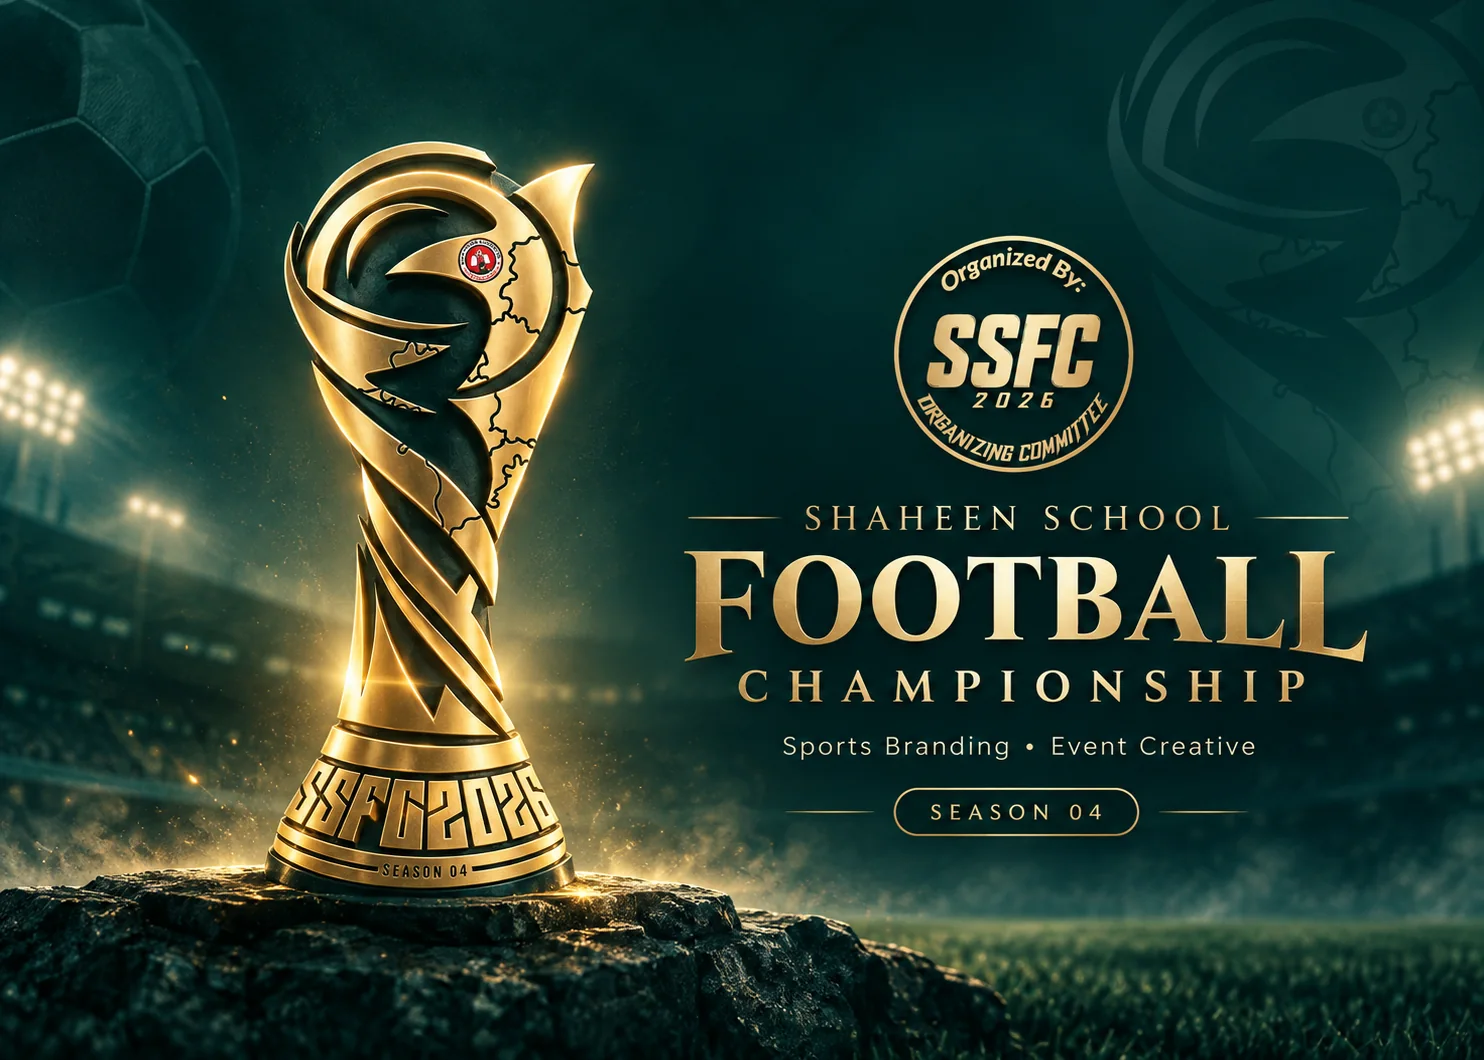
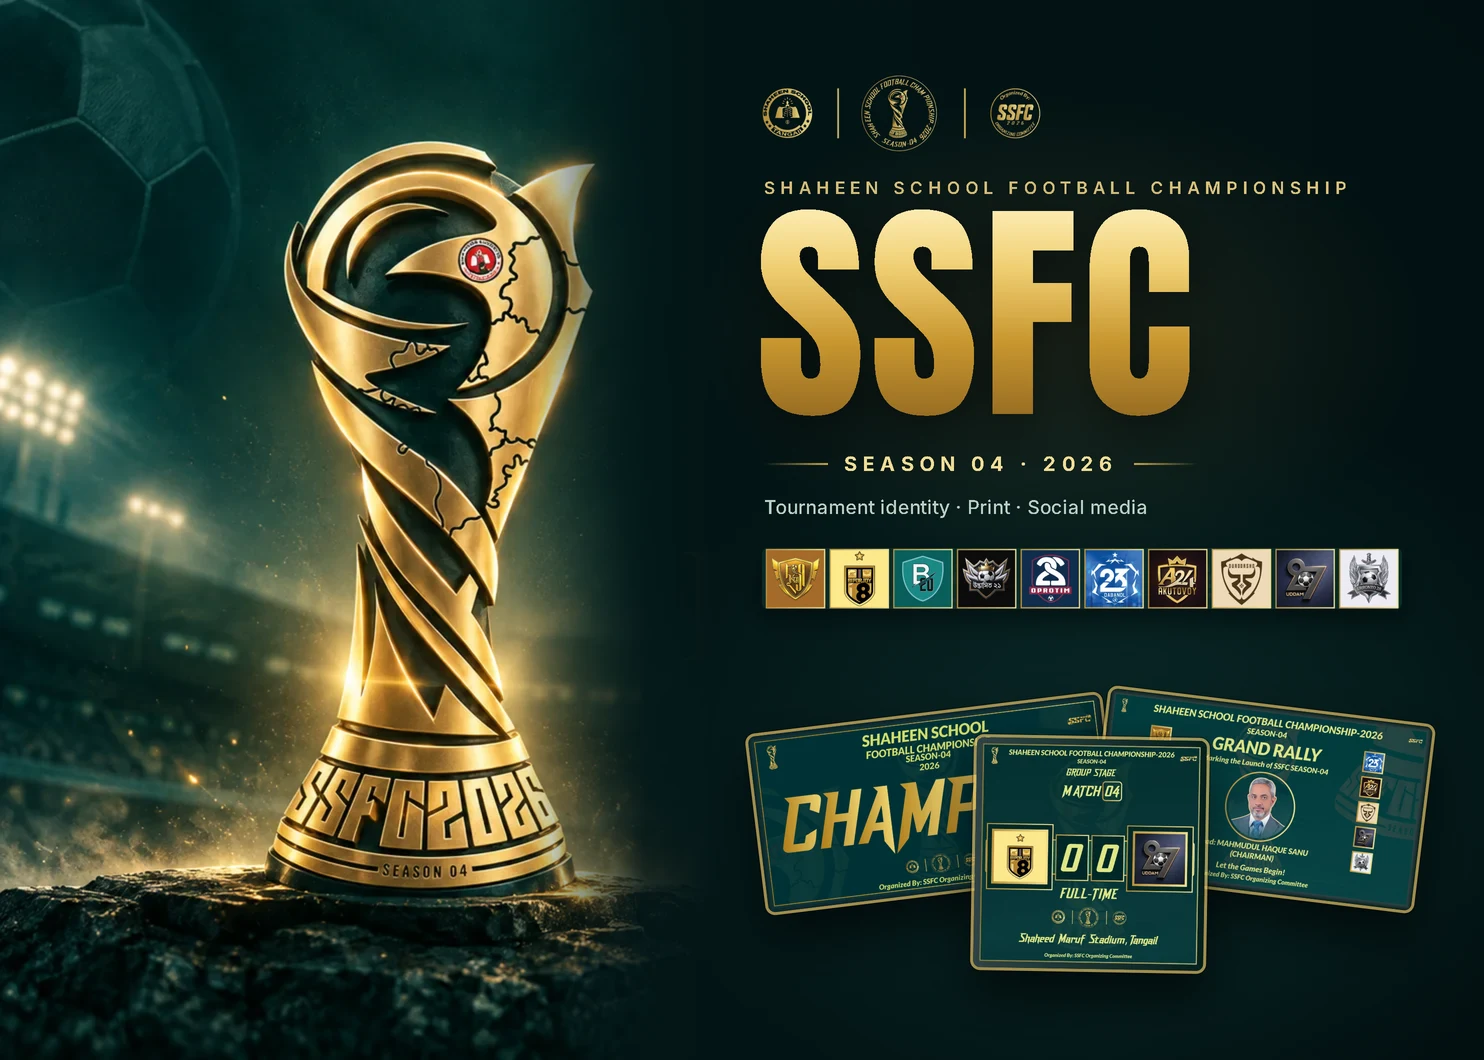
Redesign the SSFC cover with the real tournament work
The new cover keeps the trophy render and replaces the soft, generic
text side with crisp typography and real SSFC artwork: the three
official seals, a gold SSFC title, Season 04 · 2026, all ten team crests
and a fan of the champion, match-result and grand rally designs. It was
rendered at 2x from HTML. The 1200×630 share image is cut from the same
render. URLs carry ?v=2 so cached copies refresh.

diff --git a/ssfc.html b/ssfc.html
@@ -15,18 +15,18 @@
   <meta property="og:title" content="SSFC Case Study | MD Mehedi Hasan Sawon">
   <meta property="og:description" content="SSFC case study by MD Mehedi Hasan Sawon: tournament branding, stadium and champion banners, ID cards, fixtures, match results, notices and social posts for Seasons 1–4.">
   <meta property="og:url" content="https://xehedihasansawon.github.io/ssfc.html">
-  <meta property="og:image" content="https://xehedihasansawon.github.io/assets/work/ssfc-og.jpg">
+  <meta property="og:image" content="https://xehedihasansawon.github.io/assets/work/ssfc-og.jpg?v=2">
   <meta property="og:image:width" content="1200">
   <meta property="og:image:height" content="630">
   <meta name="twitter:card" content="summary_large_image">
   <meta name="twitter:title" content="SSFC Case Study | MD Mehedi Hasan Sawon">
   <meta name="twitter:description" content="SSFC case study by MD Mehedi Hasan Sawon: tournament branding, stadium and champion banners, ID cards, fixtures, match results, notices and social posts for Seasons 1–4.">
-  <meta name="twitter:image" content="https://xehedihasansawon.github.io/assets/work/ssfc-og.jpg">
+  <meta name="twitter:image" content="https://xehedihasansawon.github.io/assets/work/ssfc-og.jpg?v=2">
   <link rel="preconnect" href="https://fonts.googleapis.com">
   <link rel="preconnect" href="https://fonts.gstatic.com" crossorigin>
   <link href="https://fonts.googleapis.com/css2?family=Anton&family=Caveat:wght@600&family=Inter:wght@400;500;600;700;800&display=swap" rel="stylesheet">
   <link rel="stylesheet" href="styles.css?v=v11-20261122">
-  <script type="application/ld+json">{"@context":"https://schema.org","@type":"CreativeWork","name":"Shaheen School Football Championship (SSFC) design","url":"https://xehedihasansawon.github.io/ssfc.html","image":"https://xehedihasansawon.github.io/assets/work/ssfc-og.jpg","description":"SSFC case study by MD Mehedi Hasan Sawon: tournament branding, stadium and champion banners, ID cards, fixtures, match results, notices and social posts for Seasons 1–4.","creator":{"@type":"Person","name":"MD Mehedi Hasan Sawon","url":"https://xehedihasansawon.github.io/"},"locationCreated":{"@type":"Place","name":"Tangail, Bangladesh"}}</script>
+  <script type="application/ld+json">{"@context":"https://schema.org","@type":"CreativeWork","name":"Shaheen School Football Championship (SSFC) design","url":"https://xehedihasansawon.github.io/ssfc.html","image":"https://xehedihasansawon.github.io/assets/work/ssfc-og.jpg?v=2","description":"SSFC case study by MD Mehedi Hasan Sawon: tournament branding, stadium and champion banners, ID cards, fixtures, match results, notices and social posts for Seasons 1–4.","creator":{"@type":"Person","name":"MD Mehedi Hasan Sawon","url":"https://xehedihasansawon.github.io/"},"locationCreated":{"@type":"Place","name":"Tangail, Bangladesh"}}</script>
 </head>
 <body class="case-study-page">
   <div class="loader" id="loader" aria-hidden="true">
@@ -95,7 +95,7 @@
           <p class="case-lead">A multi-season football tournament design system covering social media, match graphics, jerseys, notices, event branding and large-format print — with Season 4 co-organizing responsibility.</p>
           <div class="case-tags"><span>Sports Branding</span><span>Event Design</span><span>Large Format</span><span>Social Media</span></div>
         </div>
-        <div class="case-hero-visual"><img src="assets/work/ssfc-cover.webp" width="1484" height="1060" alt="SSFC 2026 trophy and championship identity" fetchpriority="high" decoding="async"></div>
+        <div class="case-hero-visual"><img src="assets/work/ssfc-cover.webp?v=2" width="1484" height="1060" alt="SSFC Season 4 cover with the trophy, the SSFC title, all ten team crests and three tournament designs" fetchpriority="high" decoding="async"></div>
       </div>
     </section>
 

diff --git a/index.html b/index.html
@@ -215,7 +215,7 @@
             </div>
           </a>
           <a class="card project" href="ssfc.html" data-reveal>
-            <div class="project-media"><img src="assets/work/ssfc-cover.webp" width="1484" height="1060" alt="SSFC 2026 trophy and championship identity" loading="lazy" decoding="async"></div>
+            <div class="project-media"><img src="assets/work/ssfc-cover.webp?v=2" width="1484" height="1060" alt="SSFC Season 4 cover with the trophy, the SSFC title, all ten team crests and three tournament designs" loading="lazy" decoding="async"></div>
             <div class="project-body">
               <span class="project-meta">Sports Branding · Event Creative</span>
               <div class="project-title"><h3>SSFC</h3><span class="round-arrow"><svg class="icon icon-sm" aria-hidden="true"><use href="#i-arrow-up-right"/></svg></span></div>
